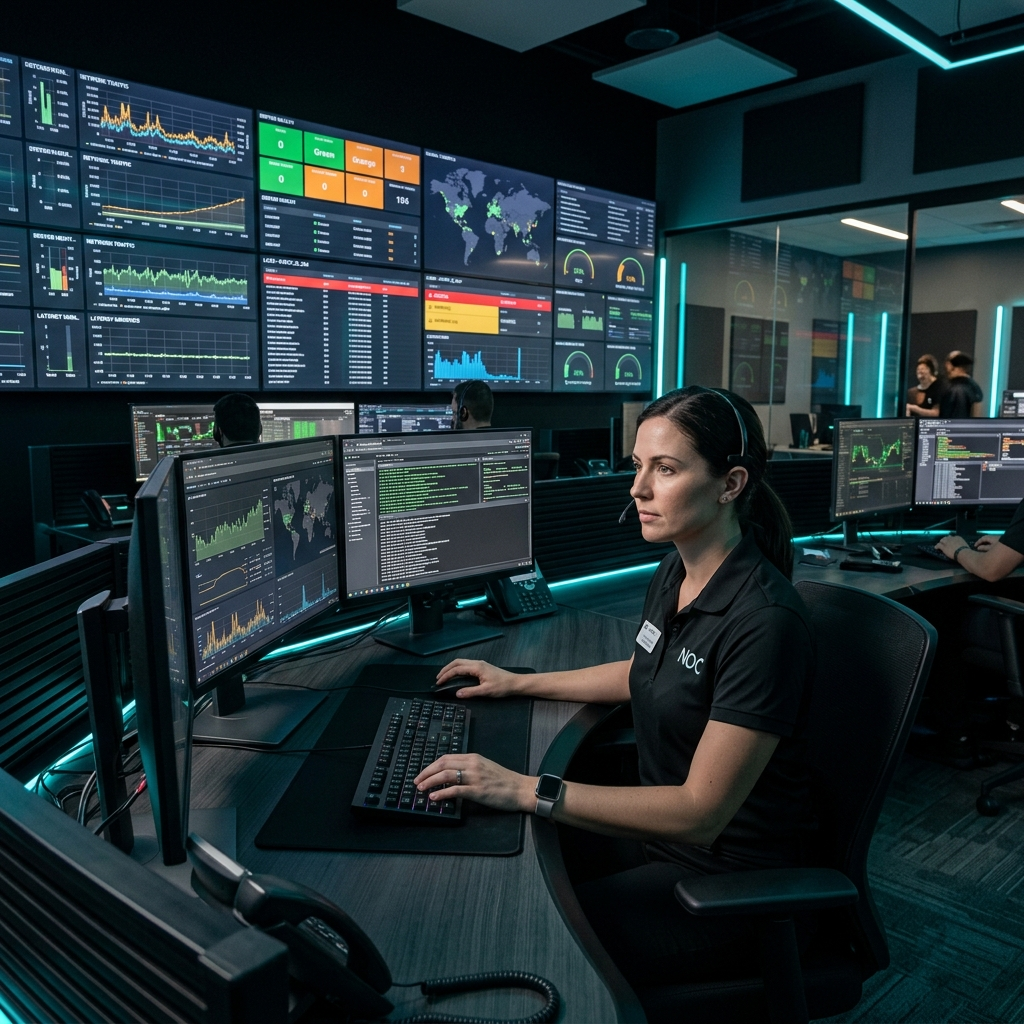
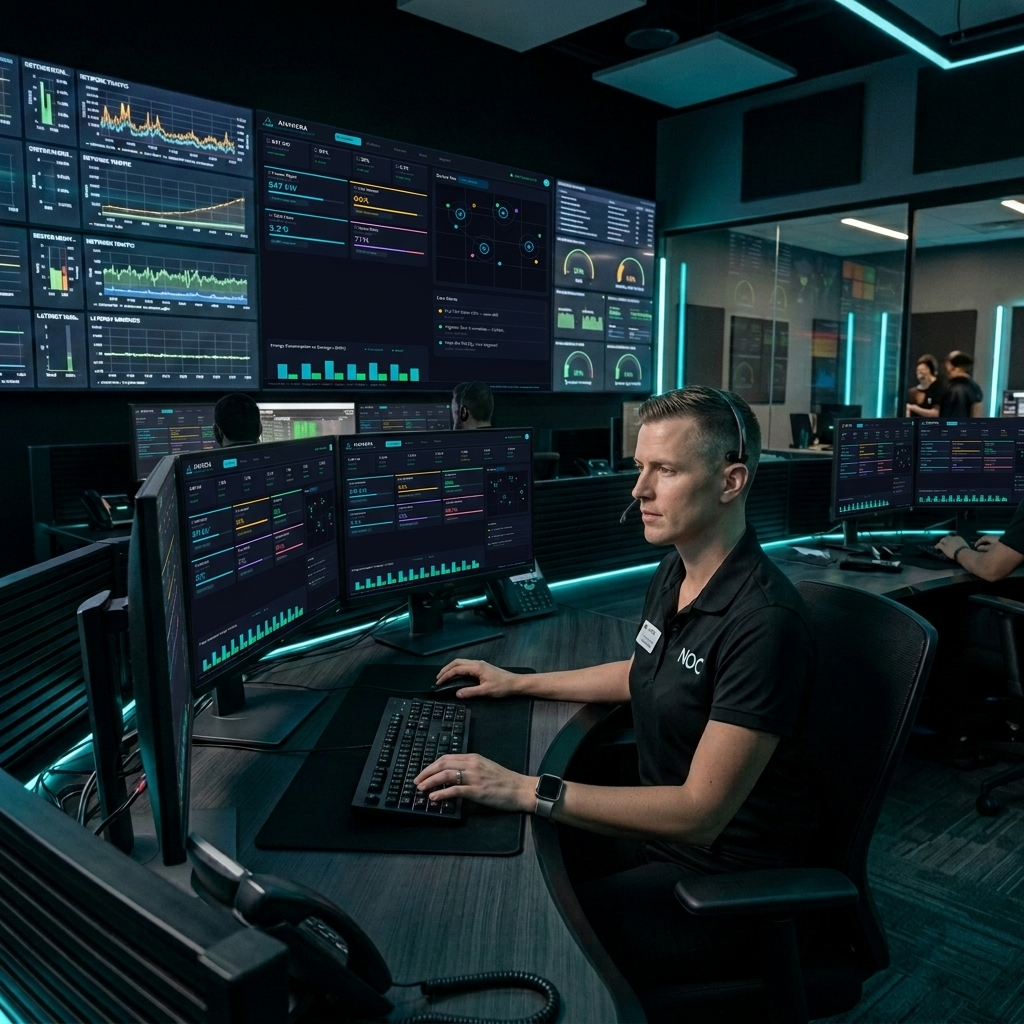
feat(homepage): change heading to black and update platform image to show male operator with Anavera dashboard
- Updated PlatformIntro heading 'A Unified Industrial' to text-black.
- Replaced the platform illustration asset with a new photographic variant featuring a male specialist and custom Anavera overview dashboard screens.

Changed region(s): [[0.0938, 0.0938, 0.5625, 0.75], [0.5938, 0.375, 0.7812, 0.5625], [0.8125, 0.4062, 1.0, 0.5312]]

diff --git a/src/app/_home/HomeSections.tsx b/src/app/_home/HomeSections.tsx
@@ -82,7 +82,7 @@ function PlatformIntro() {
               <span className="text-teal font-medium tracking-wider uppercase text-sm font-space">
                 Core Architecture
               </span>
-              <h2 className="text-4xl sm:text-5xl font-bold tracking-tight text-white leading-tight font-space">
+              <h2 className="text-4xl sm:text-5xl font-bold tracking-tight text-black leading-tight font-space">
                 A Unified Industrial <br />
                 <span className="bg-gradient-to-r from-teal to-blue-400 bg-clip-text text-transparent">
                   IoT Platform